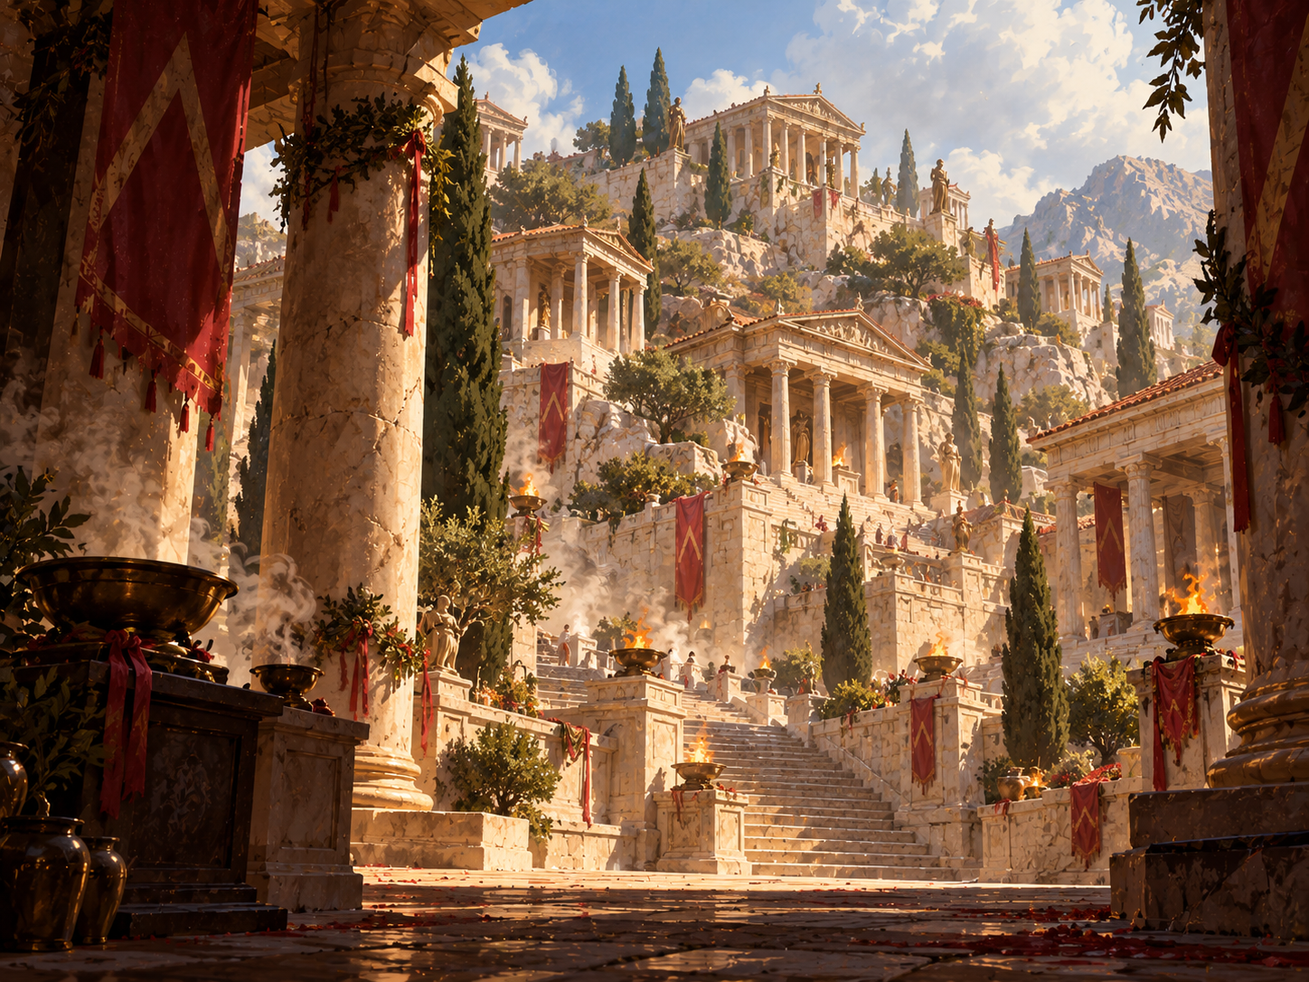
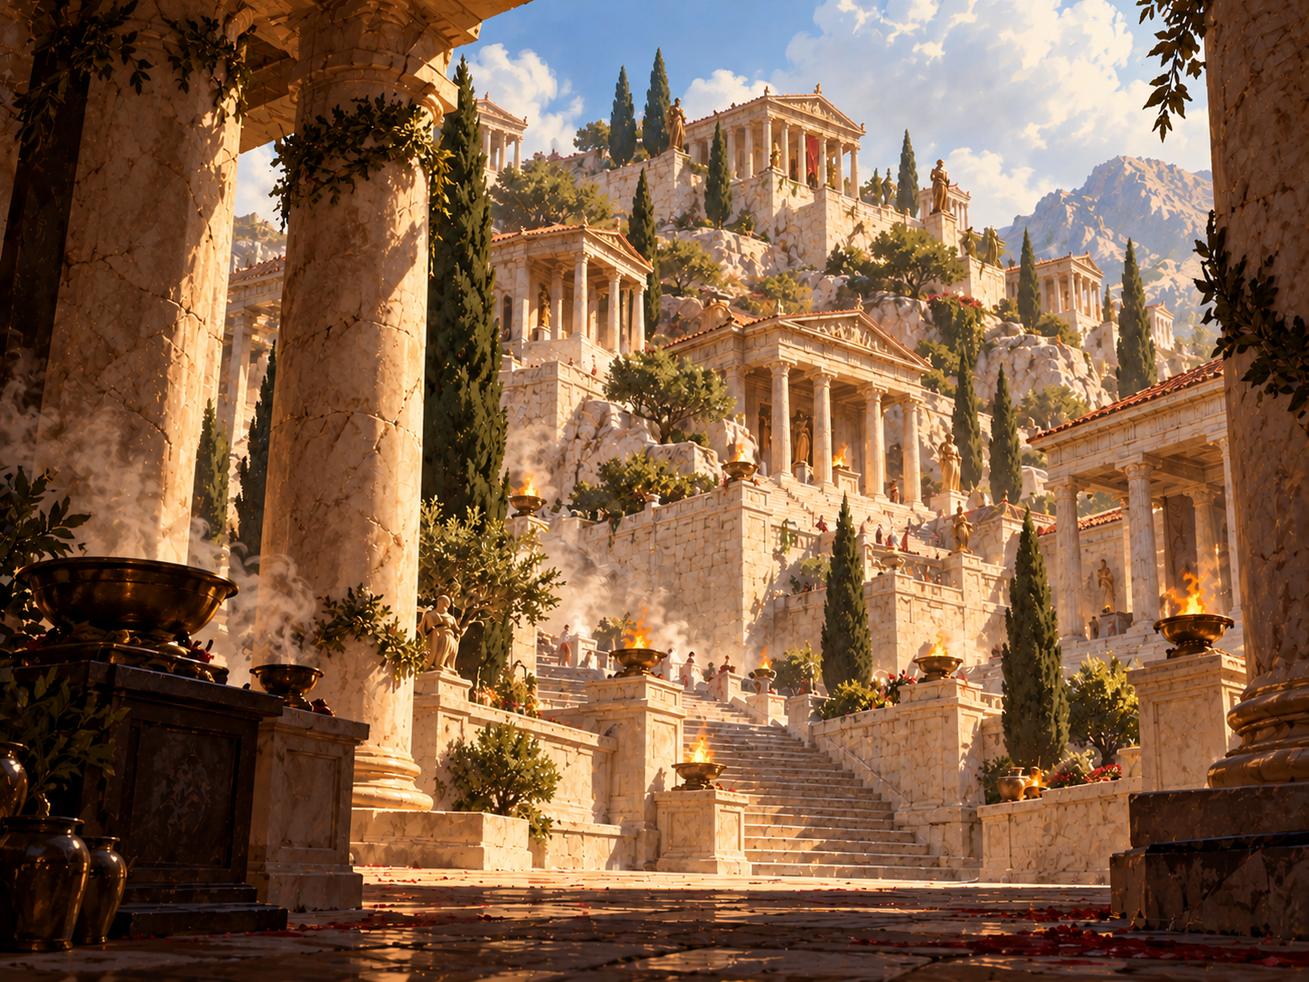
vault backup: 2026-10-25 16:53:07

diff --git a/The Last Wish/Artefacts/Scenery/Akros/Akros - Scenery Gallery.md b/The Last Wish/Artefacts/Scenery/Akros/Akros - Scenery Gallery.md
@@ -1,127 +1,189 @@
 # Akros — Scenery Gallery
 
-Player-facing scenery for all 30 points of interest on [[Akros.png]]. The original [[15-Arena.png]] is preserved and served as the style reference for the 29 new images.
+Sfeerbeelden en ondersteunende beschrijvingen voor alle dertig plekken op [[The Last Wish/Artefacts/Maps/Akros.png|de kaart van Akros]]. De oorspronkelijke [[15-Arena.png]] diende als stijlreferentie voor de overige beelden.
 
-> [!info] Map numbering
-> The map legend repeats 21 and omits 23. This gallery uses **21 — Residential District**, **22 — Archive of Deeds**, and **23 — The Veteran's Rest**; 24–30 follow the map.
+De teksten onder de beelden zijn bedoeld om voor te lezen of in eigen woorden te gebruiken. Elke beschrijving verweeft de vaste contactpersoon met de plek; pas diens aanwezigheid, het tijdstip en de drukte aan de gespeelde situatie aan. De links bij de namen leiden naar de NPC-fiches voor de DM, met achtergrond, geheimen en mogelijke ontmoetingen. De taferelen zijn sfeer om te introduceren, geen verslag van gebeurtenissen die al hebben plaatsgevonden.
+
+> [!info] Kaartnummering
+> De kaartlegenda herhaalt 21 en wijkt bij de herberg af van de markering op de kaart. Dit overzicht volgt de NPC-fiches: **21 — Woonwijk**, **22 — Archief der Daden**, **23 — De Rustende Veteraan**; 24–30 volgen de kaart. De plaatsing van de archiefhal naast het Stadhuis is een voorstel voor de DM; de kaart geeft hiervoor geen eenduidige eigen markering.
 
 ## 01 — Bridge of Pharagax
 
 ![[01-Bridge-of-Pharagax.png]]
 
+Vier geweldige overspanningen verdwijnen boven de nevel van de kloof. Ze rusten op uitgehouwen schouders van reusachtige steenpijlers, alsof de berg zelf zich schrap zet om Akros te dragen. Wind trekt aan de rode banieren; beneden blijft elke geworpen blik zonder antwoord. Aan de stadszijde knielt [[01 - Melantho - Hoedster van de Vier Overspanningen|Melantho]] naast een bronzen inspectiering. Haar opgelapte jas bolt op terwijl ze haar wang tegen het plaveisel legt en luistert. Vier geknoopte koorden hangen aan haar riem. Pas wanneer ze opstaat, wordt zichtbaar hoe klein de bruggenbouwster is tegenover het werk dat aan haar zorg is toevertrouwd.
+
 ## 02 — Colossus of Akros
 
 ![[02-Colossus-of-Akros.png]]
+
+De bronzen voeten van de kolossus rijzen hoger dan de wachters die eronder dienstdoen. Daarboven klimmen scheenplaten, schildrand en speerschacht naar een gehelmde kop tegen de wolken. Zonlicht brandt op de uitstekende randen; in de plooien van het metaal ligt groen patina. Bij de wachtpost staat [[02 - Ianthe - De Ruiter die Tweemaal Telt|Ianthe]], herkenbaar aan een zorgvuldig verstelde rode mantel en een deuk boven het oor van haar helm. Haar ogen gaan langs de aanwezigen, één voor één. Dan schuift ze een waterkruik binnen bereik van de wachtbank, met de vanzelfsprekendheid van iemand die vaak vermoeide reizigers ontvangt.
 
 ## 03 — Lower Gate
 
 ![[03-Lower-Gate.png]]
 
+Tussen twee vierkante torens vernauwt de weg zich tot een doorgang van bleke steen en met brons beslagen deuren. Achter de vuurkorven hangt de geur van rook, lastdieren en warme bagage. Elke stem krijgt onder het poortgewelf een tweede, hollere klank. Aan een klein tafeltje zit [[03 - Orestes - De Geduldige Poort|Orestes]], één knie gestrekt op een houten bankje. Zijn speer staat tegen de muur; in zijn hand rust een stompe schrijfstift. Hij laat een drager zijn last neerzetten voordat hij het register naar zich toe trekt. Buiten blijft de wind aan de brug rukken, hierbinnen schuift alleen een blad over hout.
+
 ## 04 — Upper Gate
 
 ![[04-Upper-Gate.png]]
+
+De brede trap klimt tussen warme gevels naar een poortgebouw dat diep in de rotswand steekt. Boven de bronzen deuren bewegen rode banieren; verder omhoog tekenen cipressen zich af tegen de tempelterrassen. In de koele schaduw van de controlepost bestudeert [[04 - Asterion - De Ongebogene|Asterion]] een toegangsbewijs. De minotaurus draagt gewijde knopen aan zijn hoorns en een bronzen dop op één hoornpunt. Hij geeft het document met beide handen terug. Wanneer een kind naast de wachtbank iets vraagt, buigt hij zijn machtige hoofd tot op luisterhoogte. Achter hem blijven de soldaten bij hun post.
 
 ## 05 — Akropolis of Iroas
 
 ![[05-Akropolis-of-Iroas.png]]
 
+Hoog boven de daken ligt het heiligdom van Iroas in scherp berglicht. Brede trappen voeren naar zuilen van verweerde steen; tussen bronzen krijgersbeelden ritselen cipressen. De wind brengt de geur van offers mee en slaat af en toe een hoek van een gewaad omhoog. Op de buitenste tempeltrappen draagt [[05 - Thaleia - De Lauwer zonder Goud|Thaleia]] een stapel schrijftabletten tegen haar borst. Een eenvoudige olijfkrans rust op haar zilvergrijze haar. Ze neemt de laatste treden behoedzaam, met een stijve schouder, en maakt op een stenen bank plaats voor iemand die met een verzoek wacht.
+
 ## 06 — Temple of Triumph - Monolith
 
 ![[06-Temple-of-Triumph---Monolith.png]]
+
+Uit een ronde, getrapte sokkel rijst een roodachtige monoliet omhoog. Langs de gebeitelde reliëfs glijden smalle schaduwen; aan de voet liggen laurierkransen, linten en kleine offers die door de wind zijn verschoven. De open ruimte draagt ieder voetgeluid ver. Op de onderste treden zet [[06 - Nikomache - De Naam onder de Lauwer|Nikomache]] een omgevallen krans recht. Haar donkere sjaal beschut haar gezicht, haar vingers zijn groen van gekneusde bladeren. Ze veegt stof uit een letter voordat ze verdergaat naar de volgende. Wie dichtbij staat, hoort haar zacht een naam uit het opschrift lezen, zorgvuldig genoeg om elke lettergreep te bewaren.
 
 ## 07 — House of the Golden Spear
 
 ![[07-House-of-the-Golden-Spear.png]]
 
+Het Huis van de Gouden Speer staat op zijn ommuurde terras in zacht ivoorkleurig licht. Verguld brons omlijst de deuren; onder het fronton wachten bezoekers in kostbare stoffen, terwijl bedienden langs een bewaakte zijingang kisten dragen. Gesprekken worden zachter zodra iemand de zuilengang betreedt. Daar ontvangt [[07 - Theron Kalies - Meester van het Laatste Bod|Theron Kalies]] de gasten, een gouden speerspeld op zijn donkere mantel. Hij laat een bediende een voorwerp op linnen neerleggen en bekijkt het voordat hij zijn aandacht naar de bezoekers verlegt. Zijn glimlach verschijnt weloverwogen. Uit de deuropening klinkt het droge omslaan van catalogusbladen.
+
 ## 08 — Hall of Champions
 
 ![[08-Hall-of-Champions.png]]
+
+Door het open dak valt een brede strook zon op het mozaïek van het atrium. Bronzen kampioenen staan langs de zuilengang met geheven armen of schilden; onder hun voeten dragen sokkels de namen die Akros heeft willen bewaren. Stof zweeft langzaam door het licht. Naast een lege standbeeldnis staat [[08 - Philomelos - Hoeder van de Lege Sokkel|Philomelos]], plechtig gekleed en steunend op een wandelstok met bronsstof in de naden. Hij strijkt met een doek over de kale steen. Wanneer hij zich naar een bezoeker keert en de naam van een vroegere winnaar noemt, draagt zijn stem plotseling helder door de hal.
 
 ## 09 — Military Headquarters
 
 ![[09-Military-Headquarters.png]]
 
+Een vierkante doorgang geeft uit op een binnenplaats waar elke wapenstandaard en elke schildstapel zijn plaats heeft. Boven de zware deuren hangen rode vaandels; onder de zuilengang kruisen ordonnansen elkaar met haastige, gedempte stappen. Aan de stenen tafel zit [[09 - Damon - Het Rode Grootboek|Damon]] in een degelijk borstharnas. Een oud veldmes houdt zijn papieren tegen de tocht op hun plek. Rond zijn ellebogen liggen bevoorradingstabletten, zorgvuldig in kleine groepen geschikt. Hij vergelijkt twee aantallen, veegt een inktvlek langs zijn duim af en wenkt een wachtende boodschapper dichterbij. Achter hem slaat iemand een kist dicht.
+
 ## 10 — Training Grounds
 
 ![[10-Training-Grounds.png]]
+
+Het stampen van voeten houdt een vast ritme op de zandbanen. Botte speren slaan tegen oefenschilden; op elk bevel keert een rij soldaten tegelijk, gehuld in een lage wolk stof. Onder de zuilengang liggen waterkruiken naast gehavende uitrusting. [[10 - Leandra - De Kromme Speer|Leandra]] zet een schild recht en stapt langzaam door een greep heen. Haar linkerhand sluit slechts gedeeltelijk, zodat elke verplaatsing van haar gewicht goed te volgen is. Rood koord houdt haar gebarsten armbeschermer bijeen. Boven de bank achter haar hangt een kromme oefenspeer, op een plek waar iedere rekruut hem kan zien.
 
 ## 11 — Barracks
 
 ![[11-Barracks.png]]
 
+Langs de smalle binnenplaats hangen rode mantels te luchten tussen helmen en keurig opgeborgen schilden. Uit open deuren komen de geluiden van schurende sandalen, een onderdrukt hoestje en iemand die op een slaapbank gaat zitten. Bij het keukenluik stijgt damp op. [[11 - Nerissa - De Nachtelijke Kom|Nerissa]] schept eten in geschilferde kommen; meel ligt in haar wenkbrauwen en een verbleekt veldtochtlint houdt haar schort vast. Zonder te vragen verwisselt ze twee kommen wanneer de volgende soldaten aansluiten. Het gerinkel van aardewerk klinkt klein tussen de stenen muren. De geur van warm eten blijft tot onder de verste galerij hangen.
+
 ## 12 — Armory
 
 ![[12-Armory.png]]
+
+Achter de zware deur strekt zich een gewelfde opslaghal uit, koel ondanks de smalle zonnestraal die hoog door het raam valt. Helmen, borstplaten en ronde schilden staan in lange rijen; speerschachten tekenen strepen tegen de muur. Het ruikt naar geolied leer en metaal. Onder het raam buigt [[12 - Menekles - De Laatste Klinknagel|Menekles]] zich over een helm, zo dichtbij dat zijn adem het brons beslaat. Elk werktuig ligt in een uitgesleten omtrek op zijn tafel. Hij draait een bevestiging tussen twee vingers, houdt haar in het licht en legt haar naast een sierlijk doosje vol kleine metaalmonsters.
 
 ## 13 — Stables
 
 ![[13-Stables.png]]
 
+Warm hooi en verzorgd leer vullen de beschutte stalgangen. In de zon op het erf slaat een paard met zijn staart; ergens schuurt een hoef over steen en rinkelt een gesp tegen een houten wand. [[13 - Phaedra - De Ongetemde|Phaedra]] staat naast een onrustig oorlogspaard, haar donkere centaurflank bestoven met stro. Aan haar leren schort hangen borstels en zachte doeken. Ze houdt haar hand stil tot het dier eraan heeft geroken, en strijkt pas daarna langs de rand van het tuig. Andere verzorgers bewegen om hen heen met emmers en zadels, op een tempo dat de paarden rustig houdt.
+
 ## 14 — War Foundry
 
 ![[14-War-Foundry.png]]
+
+Hitte slaat uit de hoge gieterij naar buiten. Tussen beroete pijlers trekken mannen en vrouwen aan takels, bewegen gietvormen over de vloer en voeden de ovens. Een gekantelde kroes werpt vloeibaar brons als een felle streep licht door de rook. Op het observatieplatform houdt [[14 - Brontes - De Beheerste Vlam|Brontes]] het werk in de gaten. Zijn baard is kortgeknipt, zijn onderarmen zijn zwaar verlittekend. Hij steekt een hand op voordat bezoekers dichterbij komen; beneden wordt eerst een doorgang vrijgemaakt. Zelfs boven het geronk van de blaasbalgen draagt zijn korte aanwijzing. Langs de open wand stroomt koele berglucht binnen.
 
 ## 15 — The Arena
 
 ![[15-Arena.png]]
 
+Door de deelnemerstunnel valt een scherpe baan licht over het zand. Daarachter rijzen de rijen stenen zitplaatsen omhoog, de bovenste randen helder tegen de hemel. Iedere slag van een sandaal, ieder kuchje onder het gewelf krijgt hier gewicht. In de beschaduwde ingang staat [[15 - Praxilla - De Open Hand|Praxilla]], een witte scheidsrechtersjerp over haar rode tuniek. Een kleifiche tikt tussen haar dikke vingers. Ze kijkt naar een afdruk in het zand en strijkt die met haar voet glad voordat de volgende deelnemers naar binnen mogen. Haar meermaals gebroken neus en lege handen vallen tegelijk op wanneer ze zich omdraait.
+
 ## 16 — House of the Golden Lyre
 
 ![[16-House-of-the-Golden-Lyre.png]]
+
+Tussen de zuilen van de Gouden Lier mengen fonteinwater en het voorzichtige aanslaan van snaren zich met elkaar. Rode doeken omzomen de ingang; achter de bronzen deuren wachten een klein podium en rijen nog lege zitplaatsen. Musici dragen hun instrumenten behoedzaam langs de binnenplaats. Bij de fontein staat [[16 - Lysandra Kyros - Meesteres van de Gouden Lier|Lysandra Kyros]], een gouden lierspeld op donkerblauwe stof. Ze luistert naar een frase die vanuit de zaal opnieuw wordt ingezet. Twee geheven vingers brengen de stemmen om haar heen tot rust. Pas wanneer de laatste toon is uitgestorven, geeft ze met een klein knikje haar aanwijzing.
 
 ## 17 — Town Hall
 
 ![[17-Town-Hall.png]]
 
+Op de brede trappen van het stadhuis wachten mensen met opgerolde verzoekschriften, verzegelde tabletten en de vermoeidheid van een lange ochtend. De fontein op het voorplein verzacht het geroezemoes. Onder de diepe zuilengang schuiven klerken documenten van hand tot hand. Aan het loket leest [[17 - Eudora - Het Ongebroken Zegel|Eudora]] een verzoekschrift tot de laatste regel. Haar manchetten zijn zorgvuldig gestopt; aan haar middel hangt een omwikkelde zegelstempel. Ze wijst een lege plek op het blad aan en schuift inkt naar de schrijver toe. In de schaduw achter haar verdwijnt een bode met een stapel stukken door een zijdeur.
+
 ## 18 — Agora - Main Market
 
 ![[18-Agora---Main-Market.png]]
+
+Onder okergele en rode zeilen ligt de agora vol aardewerk, broden en hoog opgestapelde vruchten. Ezels wachten tussen de zuilen; bij de fontein kruisen gesprekken over prijzen elkaar met het klotsen van gevulde kruiken. De geur van warm meel drijft over het plein. Achter een graankraam houdt [[18 - Chryse - De Eerlijke Maat|Chryse]] een maat in haar handpalm voordat ze die op de weegschaal zet. Bronzen gewichten hangen aan een koord om haar hals. Ze strijkt de bovenkant van het graan glad en draait de schaal zodat de koper de stand zelf kan zien. Een lege zak wordt alvast opengehouden.
 
 ## 19 — Warriors Market
 
 ![[19-Warriors-Market.png]]
 
+Onder de luifels van de Krijgersmarkt glimmen bronzen schildranden naast gebruikte helmen, leren riemen en bundels speerschachten. Iemand test de zool van een sandaal; verderop klinkt het korte zingen van een kling die uit een schede wordt getrokken. Bij een smalle kraam met tweedehandsschilden draait [[19 - Myrrine - De Tweede Snede|Myrrine]] een wapen in haar hand. Een oud litteken loopt over haar neusbrug. Aan de herstelde stukken achter haar hangen restjes blauwe wol. Ze laat haar duim langs een oude reparatie gaan en keert het metaal naar het licht, zodat de wachtende klant dezelfde plek kan bekijken.
+
 ## 20 — Artisan Quarter
 
 ![[20-Artisan-Quarter.png]]
+
+De hellende straat is bezaaid met de sporen van werk: bleke steensplinters, opgedroogde klei en een draad geverfde wol in een voeg. Onder open luifels draaien pottenbakkers hun schijven; een beitel slaat verderop met geduldige tussenpozen. Aan haar werkplaatsdrempel staat [[20 - Timarete - De Geduldige Beitel|Timarete]] naast een onvoltooid reliëf. Steenstof maakt één ooglid bijna wit. Ze legt een fijne beitel neer en bevochtigt een doek over een ander werkstuk, waar heel even de wang van een geboetseerd gezicht onder zichtbaar wordt. Achter haar drogen kommen en kleivormen in de warmte van de straat.
 
 ## 21 — Residential District
 
 ![[21-Residential-District.png]]
 
+Smalle trappen lopen tussen huizen waarvan de luiken openstaan naar kleine binnenhoven. Wasgoed beweegt boven het plaveisel; bij de gemeenschappelijke fontein wachten kruiken op hun eigenaars. Uit een deuropening komen stemmen en de geur van gekookte groenten. [[21 - Maia - De Lantaarn van het Binnenhof|Maia]] staat bij het water met linnen, zeep en verse munt in haar tas. Een kind trekt aan haar mouw terwijl een buurvrouw iets vraagt. Ze luistert naar beiden, vult een kruik en draagt die naar een kamer op de begane grond. Naast de deur staat een eenvoudige kleilamp klaar voor wanneer het licht uit de straat verdwijnt.
+
 ## 22 — Archive of Deeds
 
 ![[22-Archive-of-Deeds.png]]
+
+Hoge lichtvensters werpen bleke banen over lange schrijftafels. In houten vakken rusten perkamentrollen en documentkokers van klei; langs de wanden staan kisten met bronzen beslag. Hier worden zelfs stoelen voorzichtig verschoven. Aan de eerste tafel zit [[22 - Kallias - Hoeder van de Kantlijn|Kallias]], zijn elleboog op een gladgesleten plek van zijn gewaad. Een smalle strook perkament ligt dwars over zijn werk. Terwijl een bezoeker spreekt, schrijft hij enkele woorden op, zet de inkt weg en haalt een rol dichterbij. Het droge ritselen vult even de hal. Boven de olielampen hangen nauwelijks bewegende sliertjes rook.
 
 ## 23 — The Veteran’s Rest
 
 ![[23-The-Veterans-Rest.png]]
 
+De haard geeft meer licht dan de deuropening. Aan de muren hangen oude schilden en een verbleekt vaandel; op de tafels liggen brood, dobbelstenen en handen die veel werk hebben gedaan. Gesprekken zakken soms vanzelf weg, tot iemand een kruik doorgeeft. Bij het vuur zit [[23 - Eryx - De Onvoltooide Heildronk|Eryx]], een wollen doek om één knie. Hij poetst een gedeukte beker en zet die leeg terug. Wanneer een gast binnenkomt, schuift hij een stoel zo dat de haard gemakkelijk bereikbaar blijft. Uit de keuken verschijnt een kom eten. De geur van houtrook zit diep in de balken.
+
 ## 24 — The Spear & Shield
 
 ![[24-The-Spear-and-Shield.png]]
+
+Een bronzen schild met een enkele speer markeert de herberg op de straathoek. Onder het rode terrasdoek zitten soldaten zonder helm, met mantels op de banken en wijn in brede kleibekers. Een lach rolt de trapstraat in, gevolgd door het aanschuiven van een tafel. [[24 - Dione - Het Schild aan de Deur|Dione]] beweegt tussen de gasten met drie kruiken in haar armen. Een strook rode mantel houdt haar donkere krullen bijeen. Met haar voet schuift ze een tas onder een bank, zodat de doorgang naar de deur weer vrij is. Bij de volgende tafel blijft ze even staan; het gesprek krijgt een rustiger toon.
 
 ## 25 — The Ember Anvil
 
 ![[25-The-Ember-Anvil.png]]
 
+Onder een beroete luifel gloeit een kleine smidshaard aan de straat. Het aambeeld draagt glanzende plekken van jarenlang gebruik; boven de werkbank hangen tangen, hamers en herstelde scharnieren. Elke hamerslag klinkt scherp tussen de gevels. [[25 - Antigone - De Dochter van de Sintel|Antigone]] legt haar tang neer om een beschadigd voorwerp in beide handen te wegen. Haar leren schort hangt ruim om de schouders en in één oor draagt ze een bronzen hamertje. Ze draait het werkstuk langzaam, zoekt een scheur met haar nagel en trekt dan een kruk naar de werkbank. De kolen zakken zacht krakend in elkaar.
+
 ## 26 — Cliffwatch
 
 ![[26-Cliffwatch.png]]
+
+Voorbij de lage borstwering valt de bergwand weg in blauwe nevel. Op het drinkterras van Klifwacht staan houten tafels onder een verweerd pannendak; wijnbekers rusten in de luwte van bleke stenen zuilen. Een windvlaag laat de ranken langs de galerij ritselen. [[26 - Rhode - De Stille Einder|Rhode]] zet een beker met brede bodem neer en houdt de kruik even vast tot de vlaag voorbij is. Haar grijze vlecht rust op een bijna wit verbleekte jas; onder de tafelrand zijn stevige laarzen zichtbaar. Ze kijkt langs de borstwering naar het licht op de overkant. Het gesprek aan de dichtstbijzijnde tafel blijft zacht.
 
 ## 27 — Temple Terraces
 
 ![[27-Temple-Terraces.png]]
 
+Brede, uitgesleten trappen verbinden kleine heiligdommen op opeenvolgende terrassen. Voor de altaren staan bronzen offerschalen; rode linten bewegen tussen laurier en cipres. Wierook blijft hangen onder de laagste zuilengang, waar de steen nog koel is. Op een bordes zet [[27 - Sostrate - Hoedster van de Kleine Vlammen|Sostrate]] twee manden neer om haar greep op een kruik lampolie te veranderen. Kleine roetvlekken tekenen haar vingers. Ze verdeelt de offers zorgvuldig, controleert een lamp en draagt de juiste mand naar de volgende deur. Bij elke drempel neemt ze even de tijd voordat ze verder klimt. Achter haar begint een verse pit te branden.
+
 ## 28 — Olive Terraces
 
 ![[28-Olive-Terraces.png]]
+
+Zilvergroene bladeren ritselen boven de lage terrasmuren. Tussen de gedraaide stammen loopt een smal pad langs waterkanalen, manden en plekken droog gras waar de zon de hele middag staat. Achter de bomen blijven de vestingmuren zichtbaar. Bij een lage sluis knielt [[28 - Ione - Wortel en Steen|Ione]], haar verbleekte hoofddoek bestrooid met olijfblad. Ze haalt een takje uit de waterloop en wacht tot de stroom zich weer verdeelt. Een entmes hangt aan haar riem. Wanneer iemand haar roept, staat ze langzaam op en wrijft de vochtige aarde van haar handen. Uit het kanaal klinkt het gestage tikken van water op steen.
 
 ## 29 — The Pilgrim Road
 
 ![[29-The-Pilgrim-Road.png]]
 
+De Pelgrimsweg stijgt in brede, afgesleten treden tussen huizen en beschutte portieken. In een bocht staat een rond wegheiligdom met een bronzen offerschaal en laurier aan de rand. Stafpunten tikken op steen; hogerop wacht opnieuw een trap. Naast het heiligdom rust [[29 - Timon - De Geleende Staf|Timon]] op een gladgepolijste wandelstaf. Een belletje hangt aan zijn schoudertas, waarin brieven in gewast doek zijn gerold. Hij maakt met een handgebaar plaats op de bank en wacht tot een oudere pelgrim weer op adem is. Pas dan zet hij zijn ongelijke tred voort, langzaam genoeg om samen de volgende treden te nemen.
+
 ## 30 — East Gate
 
 ![[30-East-Gate.png]]
+
+In de diepte van het poortgewelf verdwijnt de warmte uit de steen. Voorbij de met brons beslagen deuren ligt een zonbeschenen bergpad tussen droog gras en bleke rotsen. Bij de drempel houden speerwachters hun post; binnen wacht bagage naast een inspectiebank. Daar staat [[30 - Theris - De Poort die Wacht|Theris]], een rood koord om haar grijzende haar. Boven haar bureau hangt een leeg routebord. Ze legt een reiziger rustig uit waarom het zichtbare pad tijdens de afzondering geen begaanbare uitweg biedt. Haar hand blijft op de inspectiebank rusten terwijl ze luistert. Buiten beweegt het gras en gaat de weg uit het zicht.
 

diff --git a/The Last Wish/Artefacts/Scenery/Akros - Banner Reduction Prompts.md b/The Last Wish/Artefacts/Scenery/Akros - Banner Reduction Prompts.md
@@ -1,0 +1,62 @@
+# Akros — banner reduction, images 18–30
+
+Edited with the built-in image generation tool on 2026-10-25. Existing image filenames retained.
+
+## Shared prompt
+
+Use case: precise-object-edit. Edit target: the supplied Akros D&D scenery image. Make a precise object-removal edit to reduce banner overuse. Inpaint removed cloth and supports with the original weathered limestone, timber, vegetation or sky appropriate to each location, matching perspective, texture and illumination seamlessly. Keep the original 4:3 composition, viewpoint, architecture, people, objects, warm golden lighting, colors, painterly rendering, and all other details as closely unchanged as possible. Do not add new objects, text, borders or watermarks. 
+
+## Per-image instructions
+
+### 18-Agora---Main-Market.png
+
+Remove every hanging heraldic red-and-gold banner from foreground columns, colonnades and distant hillside buildings. Keep functional market awnings, stall fabrics, goods and clothing.
+
+### 19-Warriors-Market.png
+
+Remove every hanging heraldic banner from the foreground arch and all near and distant buildings. Keep the market shade awnings, merchandise, cloaks and painted shield emblems.
+
+### 20-Artisan-Quarter.png
+
+Remove every hanging military/heraldic red-and-gold banner from workshops and distant buildings. Keep functional awnings and the weaver's dyed cloth merchandise.
+
+### 21-Residential-District.png
+
+Remove ALL heraldic banners from this civilian neighborhood, including foreground, balconies and distant houses. Keep ordinary laundry on the right balcony, clothing, plants, fountain and cat.
+
+### 22-Archive-of-Deeds.png
+
+Remove all hanging banners from foreground edges and the great columns. Retain only ONE small banner beside the distant statue on the rear landing; remove its matching partner. Preserve bronze relief plaques, shelves, scrolls and scribes.
+
+### 23-The-Veterans-Rest.png
+
+Retain only the ONE faded military banner on the interior hearth wall as a veteran's keepsake. Remove all other hanging banners inside and all banners on the buildings visible outside the doorway. Preserve shields and their emblems, hearth, rugs and clothing.
+
+### 24-The-Spear-and-Shield.png
+
+Remove all hanging heraldic banners from the tavern frontage, terrace pole and background fortifications and houses. Preserve the red shade canopy, bronze shield-and-spear tavern sign, patrons and clothing.
+
+### 25-The-Ember-Anvil.png
+
+Remove ALL hanging heraldic banners, including the large torn one over the smith and every banner outside on near and distant buildings. Preserve the functional overhead red awning, painted shields, forge and smith.
+
+### 26-Cliffwatch.png
+
+Remove ALL hanging heraldic banners throughout the terrace, foreground and distant buildings. Preserve any functional sunshade awning, roof, tables, patrons, vines and gorge.
+
+### 27-Temple-Terraces.png
+
+Remove the excessive repeated hanging heraldic banners throughout all terraces and foreground. Retain only ONE modest banner at the main upper shrine entrance. Preserve small votive ribbons if present, shrine architecture, altars, trees and pilgrims.
+
+### 28-Olive-Terraces.png
+
+Remove ALL hanging red-and-gold heraldic banners from the olive grove, walls, watchtowers and distant buildings. Keep the agricultural landscape, gatherers, baskets, trees and defensive architecture.
+
+### 29-The-Pilgrim-Road.png
+
+Remove the repeated hanging heraldic banners throughout the street, foreground and background. Retain only ONE small banner at the distant upper temple entrance. Keep shrine garlands, clothing and functional shade awnings.
+
+### 30-East-Gate.png
+
+Reduce banners to only ONE modest military banner beside the gateway. Remove all other hanging banners on foreground, walls, towers and distant structures. Preserve guards, mule, doors, brazier and mountain landscape.
+
